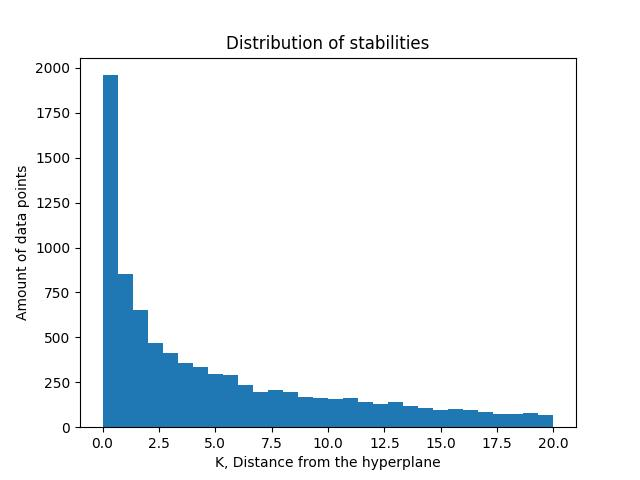
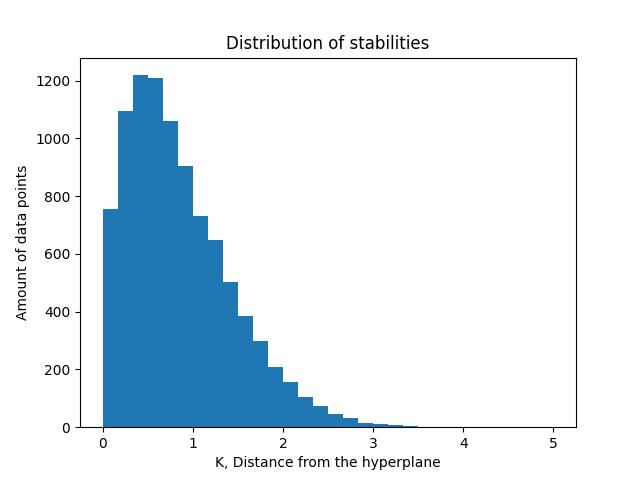
added sign to label generation

diff --git a/A2/main.py b/A2/main.py
@@ -23,7 +23,7 @@ def generate_random_data(P, N):
     sd = variance ** 0.5
     w_teacher = generate_teacher(N)
     x = np.random.normal(loc=mean, scale=sd, size=(P, N))
-    y = np.array([np.dot(element, w_teacher) for element in x])
+    y = np.array([np.sign(np.dot(element, w_teacher)) for element in x])
     return x, y, w_teacher
 
 def determine_stabilities(w, x, y):
@@ -83,7 +83,7 @@ def plot_stabilities(stabilities, title='Distribution of stabilities', save= Fal
     plt.xlabel('K, Distance from the hyperplane')
     plt.ylabel('Amount of data points')
     #plt.legend()
-    plt.hist(hist_arr, bins=30, range=(0, 20))
+    plt.hist(hist_arr, bins=30, range=(0, 5))
     if save:
         plt.savefig(f'plots/A2_plots/{title}.jpg')
     plt.show()
